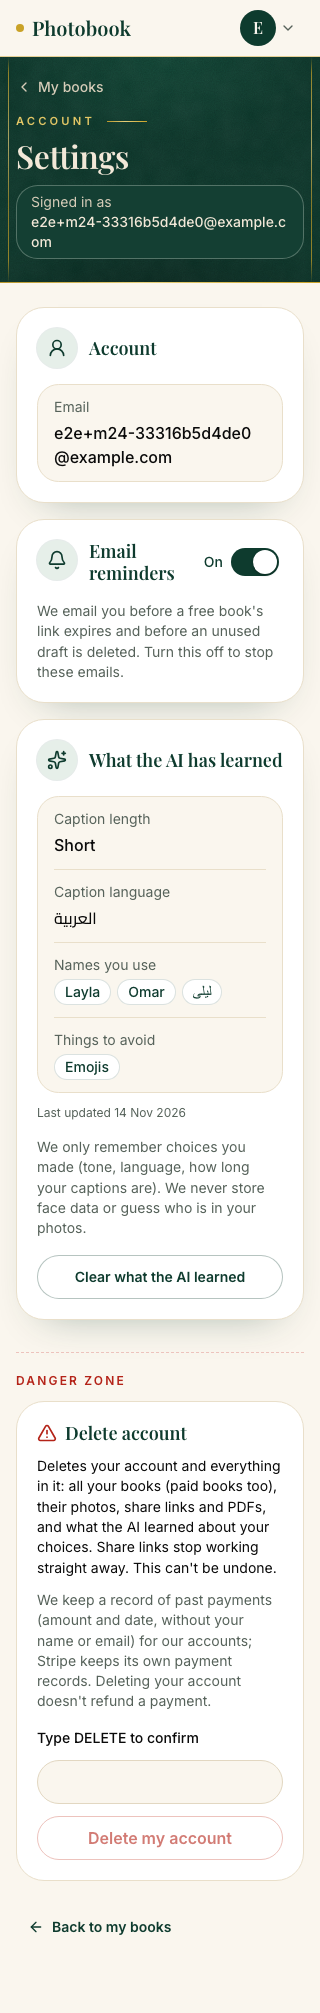
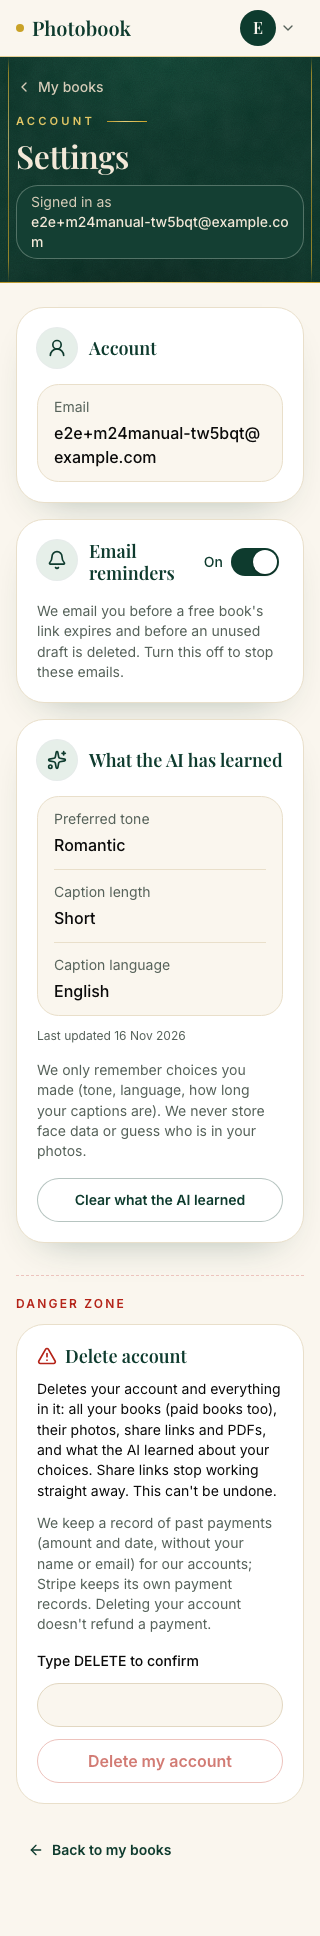
M24: reminders switch never stays busy after a save (local busy flag instead of a transition that hangs on revalidate); review nits; real-page screenshots

diff --git a/tests/m24-reminders-toggle.test.tsx b/tests/m24-reminders-toggle.test.tsx
@@ -1,0 +1,61 @@
+// @vitest-environment jsdom
+import { act, type ReactElement } from "react";
+import { createRoot, type Root } from "react-dom/client";
+import { afterEach, describe, expect, it, vi } from "vitest";
+vi.mock("server-only", () => ({}));
+vi.mock("@/app/settings/actions", () => ({ setEmailRemindersAction: vi.fn(), deleteAccountAction: vi.fn() }));
+
+import { EmailRemindersToggleView } from "@/components/settings/EmailRemindersToggle";
+import type { SetEmailRemindersResult } from "@/lib/settings/account";
+
+(globalThis as { IS_REACT_ACT_ENVIRONMENT?: boolean }).IS_REACT_ACT_ENVIRONMENT = true;
+
+let root: Root | null = null;
+let host: HTMLDivElement | null = null;
+function render(el: ReactElement) {
+  host = document.createElement("div");
+  document.body.appendChild(host);
+  const r = createRoot(host);
+  root = r;
+  act(() => r.render(el));
+}
+afterEach(() => {
+  if (root) act(() => root!.unmount());
+  root = null;
+  host?.remove();
+  host = null;
+});
+
+const sw = () => host!.querySelector<HTMLButtonElement>('[role="switch"]')!;
+
+describe("EmailRemindersToggle (M24: never stuck busy after a save)", () => {
+  it("can be toggled twice in a row without a reload", async () => {
+    const save = vi.fn(async (on: boolean): Promise<SetEmailRemindersResult> => ({ ok: true, on }));
+    render(<EmailRemindersToggleView initialOn={true} save={save} />);
+    expect(sw().getAttribute("aria-checked")).toBe("true");
+
+    await act(async () => sw().click());
+    expect(save).toHaveBeenLastCalledWith(false);
+    expect(sw().disabled).toBe(false);
+    expect(sw().getAttribute("aria-busy")).not.toBe("true");
+    expect(sw().getAttribute("aria-checked")).toBe("false");
+
+    await act(async () => sw().click());
+    expect(save).toHaveBeenCalledTimes(2);
+    expect(save).toHaveBeenLastCalledWith(true);
+    expect(sw().getAttribute("aria-checked")).toBe("true");
+    expect(sw().disabled).toBe(false);
+  });
+
+  it("is busy only while the save is in flight, and flips back on failure", async () => {
+    let resolve!: (r: SetEmailRemindersResult) => void;
+    const save = vi.fn(() => new Promise<SetEmailRemindersResult>((r) => (resolve = r)));
+    render(<EmailRemindersToggleView initialOn={true} save={save} />);
+
+    await act(async () => sw().click());
+    expect(sw().disabled).toBe(true);
+    await act(async () => resolve({ ok: false, error: "failed" } as SetEmailRemindersResult));
+    expect(sw().disabled).toBe(false);
+    expect(sw().getAttribute("aria-checked")).toBe("true");
+  });
+});

diff --git a/src/components/settings/EmailRemindersToggle.tsx b/src/components/settings/EmailRemindersToggle.tsx
@@ -6,7 +6,7 @@
 // plain strings picked per state (no cn in this first-load island).
 
 import { Bell } from "lucide-react";
-import { useState, useTransition } from "react";
+import { useState } from "react";
 import { setEmailRemindersAction } from "@/app/settings/actions";
 import { REMINDERS_OFF_NOTICE } from "@/lib/cleanup/rules";
 import {
@@ -53,30 +53,35 @@ export function EmailRemindersToggleView({
     tone: "ok" | "error";
     text: string;
   } | null>(null);
-  const [pending, startTransition] = useTransition();
+  // Local busy flag, not useTransition: the action's revalidatePath("/settings") re-renders a route
+  // with loading.tsx, and a transition's pending can stay true until reload (refresh-hang lesson) —
+  // that left the switch disabled after one tap (M24 test). Busy ends when the action answers.
+  const [pending, setPending] = useState(false);
 
-  const toggle = () => {
+  const toggle = async () => {
+    if (pending) return;
     const next = !on;
     setOn(next);
     setMessage(null);
-    startTransition(async () => {
-      let result: SetEmailRemindersResult | null = null;
-      try {
-        result = await save(next);
-      } catch {
-        result = null;
-      }
-      if (result?.ok) {
-        setOn(result.on);
-        setMessage({ tone: "ok", text: ACCOUNT_COPY.remindersSaved });
-      } else {
-        setOn(!next);
-        setMessage({
-          tone: "error",
-          text: remindersErrorCopy(result && !result.ok ? result.error : null),
-        });
-      }
-    });
+    setPending(true);
+    let result: SetEmailRemindersResult | null = null;
+    try {
+      result = await save(next);
+    } catch {
+      result = null;
+    } finally {
+      setPending(false);
+    }
+    if (result?.ok) {
+      setOn(result.on);
+      setMessage({ tone: "ok", text: ACCOUNT_COPY.remindersSaved });
+    } else {
+      setOn(!next);
+      setMessage({
+        tone: "error",
+        text: remindersErrorCopy(result && !result.ok ? result.error : null),
+      });
+    }
   };
 
   return (
@@ -135,7 +140,7 @@ export function EmailRemindersToggleView({
           {ACCOUNT_COPY.remindersLoadError}
         </Notice>
       ) : null}
-      {/* Empty live region: cancel the card gap so no blank row shows under the text. */}
+      {/* Empty live region: cancel SETTINGS_CARD's gap-4 so no blank row shows (keep -mt-4 in sync with that gap). */}
       <div aria-live="polite" className="empty:-mt-4">
         {message ? (
           <p

diff --git a/src/app/settings/page.tsx b/src/app/settings/page.tsx
@@ -62,7 +62,7 @@ export default async function SettingsPage() {
           email={email}
           back={
             <Link href="/dashboard" className={SETTINGS_BAND_BACK}>
-              <ChevronLeft className="size-4 shrink-0" aria-hidden="true" />
+              <ChevronLeft className="size-4 shrink-0 rtl:rotate-180" aria-hidden="true" />
               My books
             </Link>
           }

diff --git a/.agentos/runs/m24.md b/.agentos/runs/m24.md
@@ -5,3 +5,8 @@ Guardrails: no cn/buttonVariants/next/link in client islands (links as props); 4
 ## Build — frontend-builder — done
 - SettingsBand/SettingsNav/SettingsAccount (new), page + loading restyle, EmailRemindersToggle emerald switch, SettingsMemory definition list + chips, SettingsClearButton emerald outline + red confirm, DeleteAccount quiet→armed, AccountDeletedNotice emerald card; settings-classes.ts (client) + settings-page-classes.ts (server). tests/m24-settings.test.tsx; m11-shell-auth-settings assert updated.
 - Checks: lint, typecheck, npm test 7888. /settings first load 219,097 → 203,780 B gz (−15.3 kB: shadcn Button removed from islands). No h-scroll 320/375/1280; 44 px.
+
+## Review — reviewer — APPROVED (0 blockers, 0 should-fix); nits applied: rtl back chevron, gap sync comment. Left: duplicate hidden lg:block (harmless), email shown twice (per plan).
+## Test — tester — PASS
+- lint/typecheck/npm test 7888; delete.spec 2/2 (AI off), ai-auth settings clear (replay), m11 settings audit, launch-checks unsubscribe; signed-out redirect; 320/375/1280 no h-scroll, 44 px, axe 0, focus visible, anchors OK, clear memory OK, DELETE arms only on DELETE (trimmed, unchanged), reduced motion 0.
+- BUG (pre-existing on main): reminders switch stuck busy after one tap (useTransition + revalidatePath on a loading.tsx route). Fixed by orchestrator: local busy flag instead of useTransition; tests/m24-reminders-toggle.test.tsx (2). npm test 7890.
